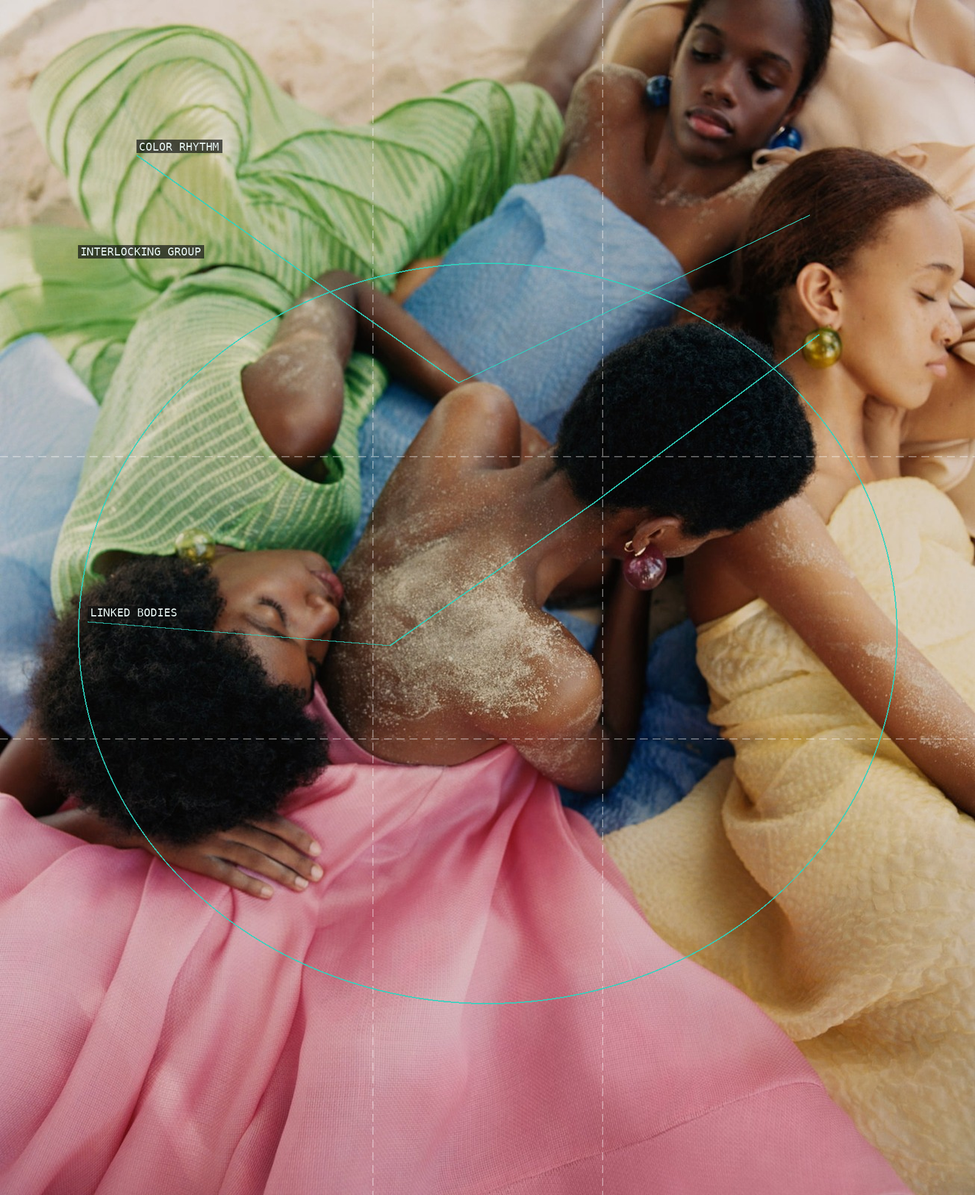
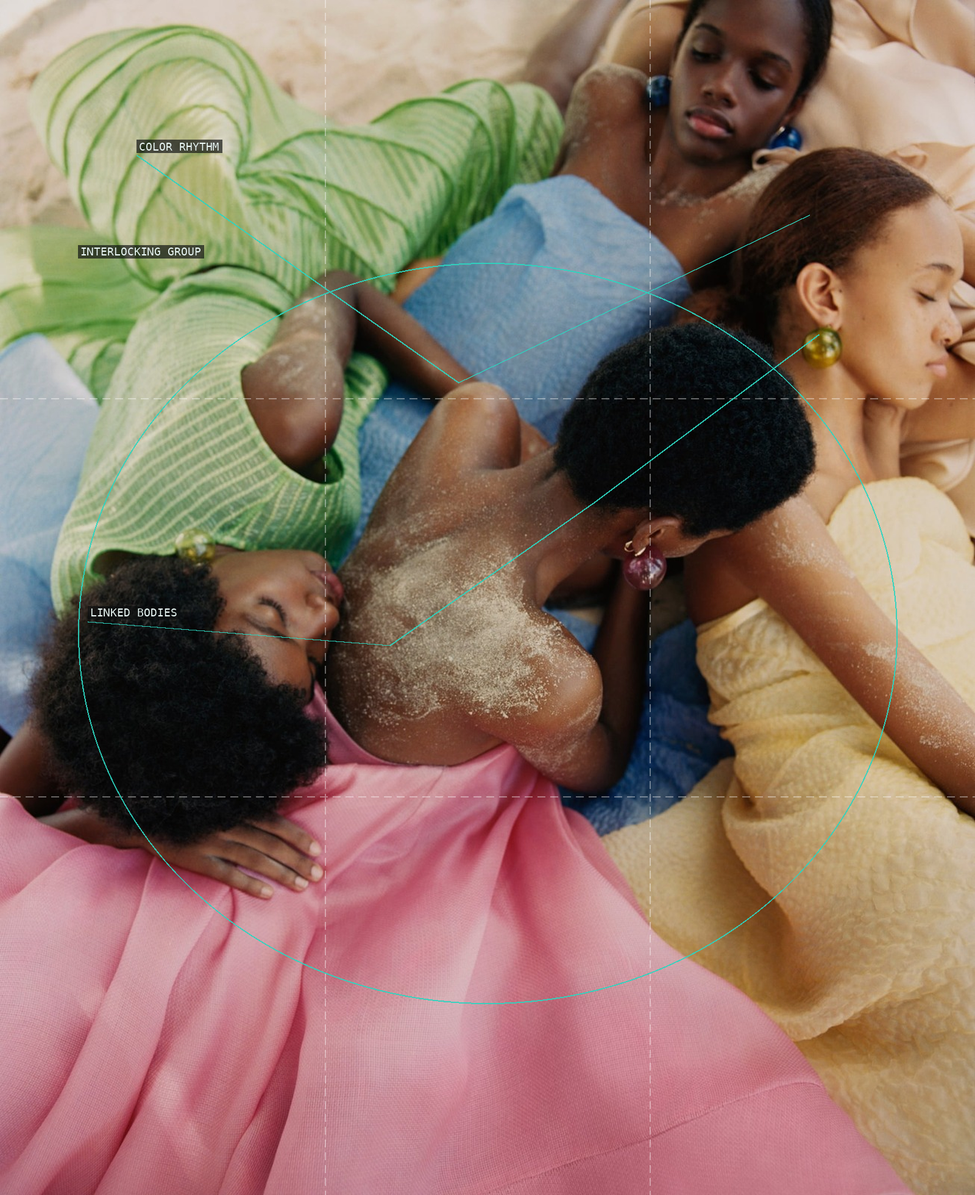
resolve critique: nadine-ijewere

diff --git a/content/nadine-ijewere/sources.md b/content/nadine-ijewere/sources.md
@@ -149,12 +149,13 @@ gallery record, print, book, editorial publication, or licensed reproduction.
 
 ### 10 — *Sisterhood in Sand*, Dominican Republic (2019)
 
-- **Why it matters:** A pair of figures and the beach's broad planes make group
-  geometry read as a gentle counterpoint rather than a posed fashion tableau.
+- **Why it matters:** Four interlocking figures and the beach's broad planes make
+group geometry read as a gentle counterpoint rather than a posed fashion tableau.
 - **Source:** [The Guardian, *Anthesis* gallery](https://www.theguardian.com/artanddesign/gallery/2023/nov/01/this-years-model-nadine-ijeweres-disruptive-fashion-photography-in-pictures), public display rendition: `https://i.guim.co.uk/img/media/86e147a1533d4e47b2c8584d52a28159eac6b908/0_0_7200_8820/master/7200.jpg?width=1920&quality=85&auto=format&fit=max&s=89fcccb18c5274f72eb69c80edda2a71`.
 - **Use basis:** **fair-use** — Creator/rightsholder notice: © Nadine Ijewere;
-  source credit “Photograph: Nadine Ijewere.” Factor 1: transformative criticism
-  of two-figure spacing and broad plane division. Factor 2: creative photograph.
+source credit “Photograph: Nadine Ijewere.” Factor 1: transformative criticism
+of the four figures' interlocking spacing and broad plane division. Factor 2:
+creative photograph.
   Factor 3: the full 1920 × 2352px frame is needed to retain the figures' spatial
   relationship to sand and horizon. Factor 4: the credited linked display copy
   is web-sized and does not replace the original, publication, or licensed file.
@@ -162,9 +163,9 @@ gallery record, print, book, editorial publication, or licensed reproduction.
 
 ### 11 — *Girl in Pink*, Dominican Republic (2019)
 
-- **Why it matters:** The portrait's pink garment and surrounding landscape give
-  Ijewere's colour logic an unusually simple, high-impact structure; it is also
-  the cover image of *Nadine Ijewere: Our Own Selves*.
+- **Why it matters:** The portrait's pink garment and repeating printed leaf
+backdrop give Ijewere's colour logic an unusually simple, high-impact structure;
+it is also the cover image of *Nadine Ijewere: Our Own Selves*.
 - **Source:** [The Guardian, *Anthesis* gallery](https://www.theguardian.com/artanddesign/gallery/2023/nov/01/this-years-model-nadine-ijeweres-disruptive-fashion-photography-in-pictures), public display rendition: `https://i.guim.co.uk/img/media/c3b05439b5bbd13c480f30d22a8da87a11134d50/0_0_7200_8820/master/7200.jpg?width=1920&quality=85&auto=format&fit=max&s=4a9a97083a9a2af3f5b2e6fdee0c7c9e`.
 - **Use basis:** **fair-use** — Creator/rightsholder notice: © Nadine Ijewere;
   source credit “Photograph: Nadine Ijewere.” Factor 1: transformative teaching

diff --git a/content/nadine-ijewere/critique.md b/content/nadine-ijewere/critique.md
@@ -1,4 +1,4 @@
-verdict: revise
+verdict: resolved
 
 ## Critique round — 2026-07-26
 
@@ -26,3 +26,16 @@ verdict: revise
   and stated absence of camera settings agree with the analyzer, source record,
   and public Guardian gallery. Each fair-use entry includes a per-image
   four-factor rationale.
+
+## Builder resolution — 2026-07-26
+
+- Required 1 resolved: `sources.md` now identifies *Sisterhood in Sand* as four
+  interlocking figures and describes the fair-use teaching purpose as their
+  interlocking spacing, matching the rendered image.
+- Required 2 resolved: `sources.md` now identifies *Girl in Pink* as a close
+  portrait against a repeating printed leaf backdrop.
+- Advisory applied: image 10 now uses the analyzer's measured best-fitting
+  thirds grid. Its proof was regenerated, visually checked, and scores 100/100.
+
+Re-verified critique history: round dated 2026-07-26 (the only prior round).
+All required fixes from that round hold in the current source record and proof.
